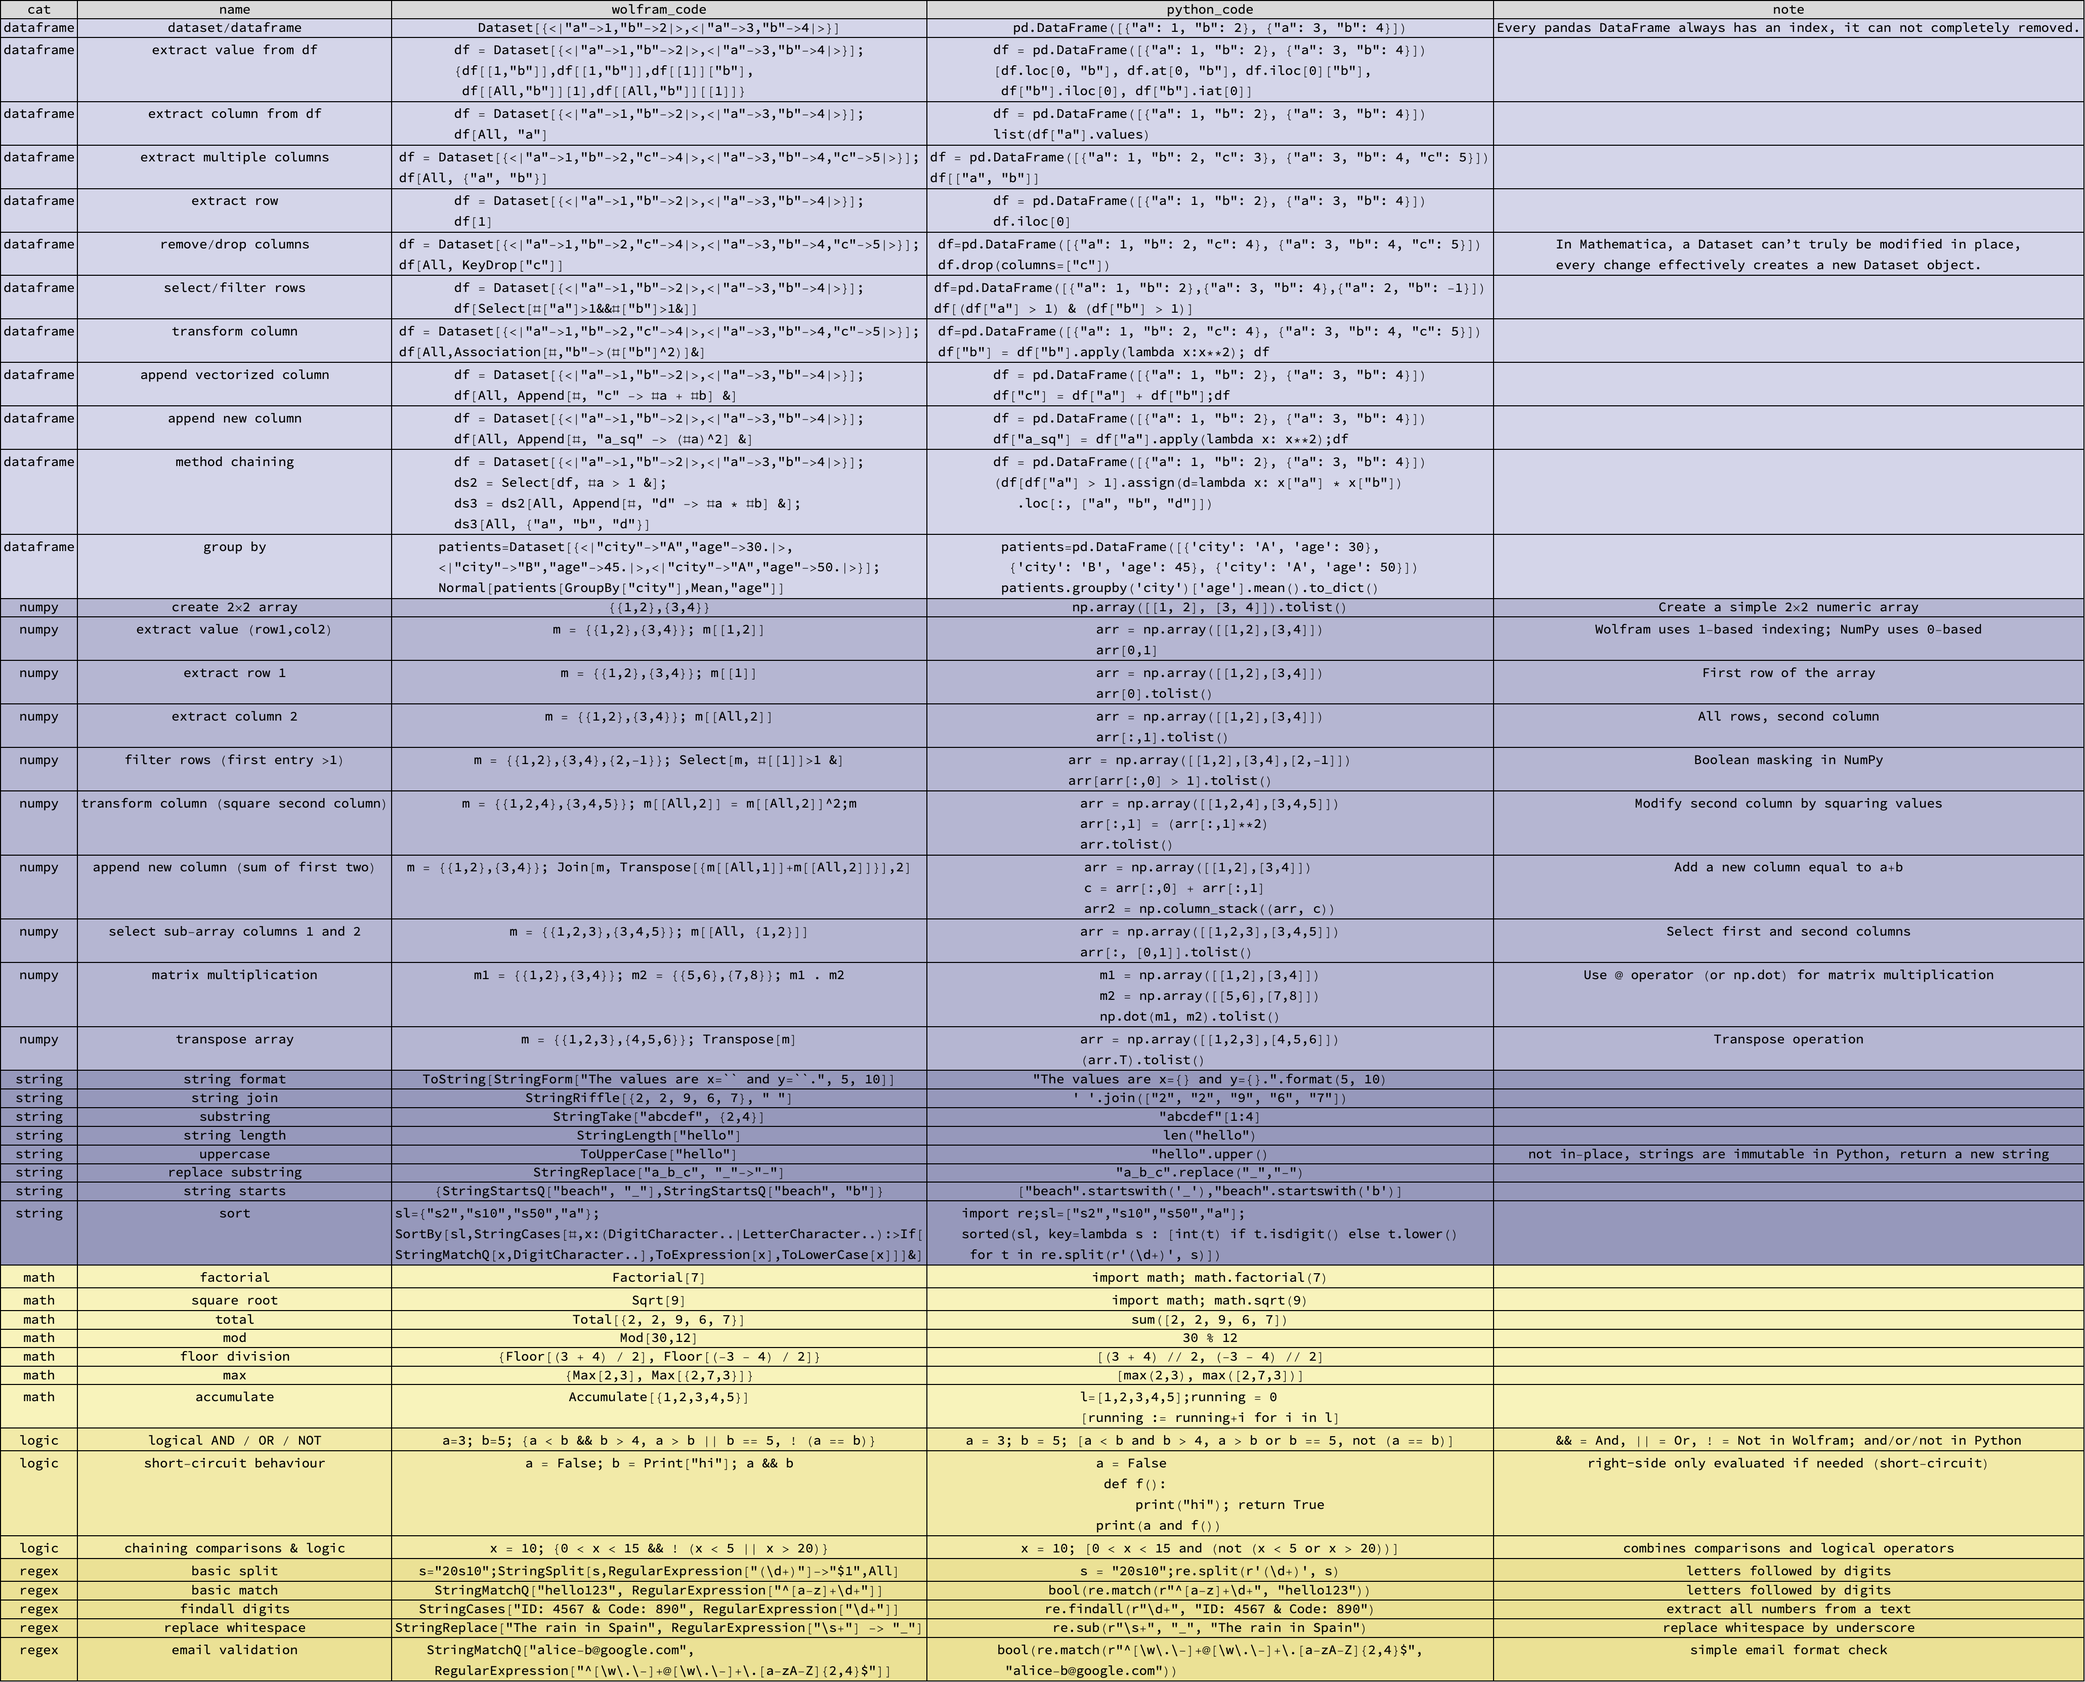
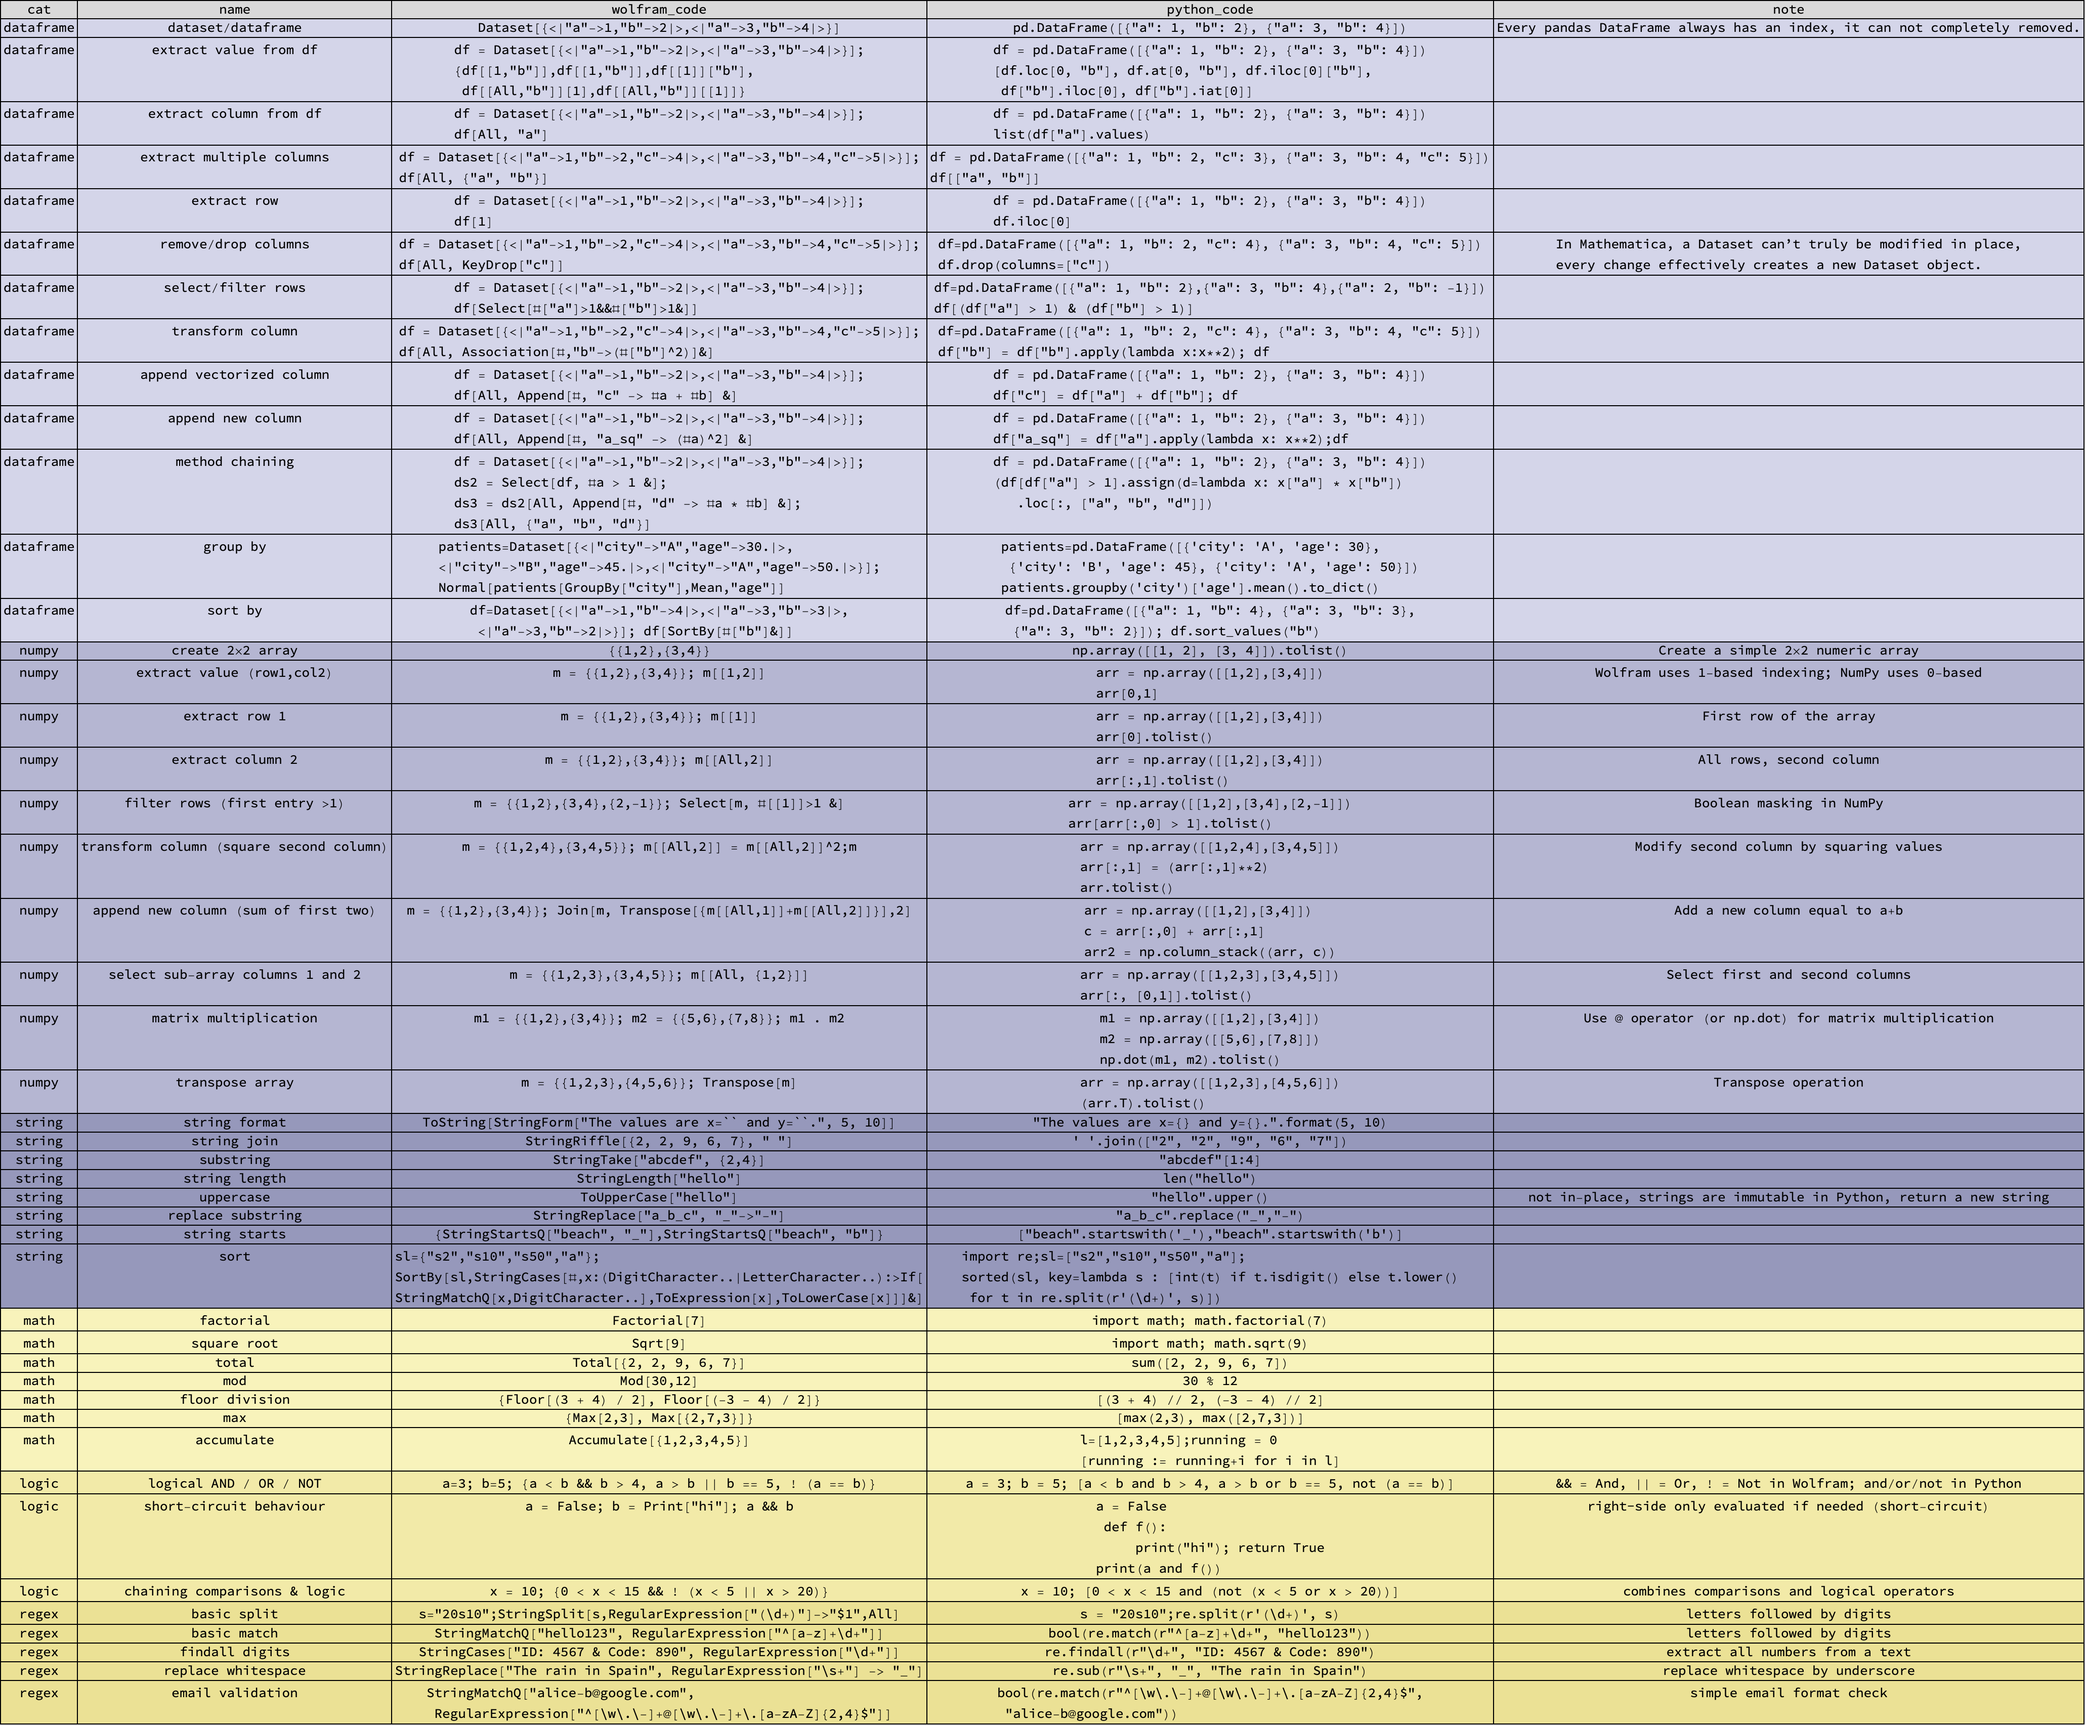
New code

diff --git a/README.md b/README.md
@@ -56,6 +56,7 @@ partition/chunk|<pre>Partition[{1,2,3,4,5,6,7}, UpTo[2]]</pre>|<pre>l = [1,2,3,4
  Name | Wolfram | Python
 :---:|:---|:---
 dict|<pre><\|"a"->2,"b"->2,"c"->9,"d"->6,"e"->7\|></pre>|<pre>{"a":2,"b":2,"c":9,"d":6,"e":7}</pre>
+init from list|<pre>Association[{"b"2,"a"1,"c"3}]</pre>|<pre>dict([['b',2],['a',1],['c',3]])</pre>
 access element in dict|<pre><\|"a"->2,"b"->2,"c"->9,"d"->6,"e"->7\|>["a"]</pre>|<pre>{"a":2,"b":2,"c":9,"d":6,"e":7}["a"]</pre>
 add or update key|<pre>d = <\|"a"->1\|>; d["b"] = 2; d</pre>|<pre>d = {"a": 1}; d["b"] = 2; d</pre>
 remove key|<pre>KeyDrop[<\|"a"->1,"b"->2\|>, "a"]</pre>|<pre>d = {"a": 1, "b": 2};d.pop("a"); d</pre>
@@ -148,11 +149,12 @@ extract multiple columns|<pre>df = Dataset[{<\|"a"->1,"b"->2,"c"->4\|>,<\|"a"->3
 extract row|<pre>df = Dataset[{<\|"a"->1,"b"->2\|>,<\|"a"->3,"b"->4\|>}];<br/>df[1]<br/></pre>|<pre>df = pd.DataFrame([{"a": 1, "b": 2}, {"a": 3, "b": 4}])<br/>df.iloc[0]<br/></pre>
 remove/drop columns|<pre>df = Dataset[{<\|"a"->1,"b"->2,"c"->4\|>,<\|"a"->3,"b"->4,"c"->5\|>}];<br/>df[All, KeyDrop["c"]]<br/></pre>|<pre>df=pd.DataFrame([{"a": 1, "b": 2, "c": 4}, {"a": 3, "b": 4, "c": 5}])<br/>df.drop(columns=["c"])<br/></pre>
 select/filter rows|<pre>df = Dataset[{<\|"a"->1,"b"->2\|>,<\|"a"->3,"b"->4\|>}];<br/>df[Select[#["a"]>1&&#["b"]>1&]]<br/></pre>|<pre>df=pd.DataFrame([{"a": 1, "b": 2},{"a": 3, "b": 4},{"a": 2, "b": -1}])<br/>df[(df["a"] > 1) & (df["b"] > 1)]<br/></pre>
-transform column|<pre>df = Dataset[{<\|"a"->1,"b"->2,"c"->4\|>,<\|"a"->3,"b"->4,"c"->5\|>}];<br/>df[All,Association[#,"b"->(#["b"]^2)]&]<br/></pre>|<pre>df=pd.DataFrame([{"a": 1, "b": 2, "c": 4}, {"a": 3, "b": 4, "c": 5}])<br/>df["b"] = df["b"].apply(lambda x:x**2); df<br/></pre>
-append vectorized column|<pre>df = Dataset[{<\|"a"->1,"b"->2\|>,<\|"a"->3,"b"->4\|>}];<br/>df[All, Append[#, "c" -> #a + #b] &]<br/></pre>|<pre>df = pd.DataFrame([{"a": 1, "b": 2}, {"a": 3, "b": 4}])<br/>df["c"] = df["a"] + df["b"];df<br/></pre>
+transform column|<pre>df = Dataset[{<\|"a"->1,"b"->2,"c"->4\|>,<\|"a"->3,"b"->4,"c"->5\|>}];<br/>df[All, Association[#,"b"->(#["b"]^2)]&]<br/></pre>|<pre>df=pd.DataFrame([{"a": 1, "b": 2, "c": 4}, {"a": 3, "b": 4, "c": 5}])<br/>df["b"] = df["b"].apply(lambda x:x**2); df<br/></pre>
+append vectorized column|<pre>df = Dataset[{<\|"a"->1,"b"->2\|>,<\|"a"->3,"b"->4\|>}];<br/>df[All, Append[#, "c" -> #a + #b] &]<br/></pre>|<pre>df = pd.DataFrame([{"a": 1, "b": 2}, {"a": 3, "b": 4}])<br/>df["c"] = df["a"] + df["b"]; df<br/></pre>
 append new column|<pre>df = Dataset[{<\|"a"->1,"b"->2\|>,<\|"a"->3,"b"->4\|>}];<br/>df[All, Append[#, "a_sq" -> (#a)^2] &]<br/></pre>|<pre>df = pd.DataFrame([{"a": 1, "b": 2}, {"a": 3, "b": 4}])<br/>df["a_sq"] = df["a"].apply(lambda x: x**2);df<br/></pre>
 method chaining|<pre>df = Dataset[{<\|"a"->1,"b"->2\|>,<\|"a"->3,"b"->4\|>}];<br/>ds2 = Select[df, #a > 1 &];<br/>ds3 = ds2[All, Append[#, "d" -> #a * #b] &];<br/>ds3[All, {"a", "b", "d"}]<br/></pre>|<pre>df = pd.DataFrame([{"a": 1, "b": 2}, {"a": 3, "b": 4}])<br/>(df[df["a"] > 1].assign(d=lambda x: x["a"] * x["b"])<br/>   .loc[:, ["a", "b", "d"]])<br/></pre>
 group by|<pre>patients=Dataset[{<\|"city"->"A","age"->30.\|>,<br/><\|"city"->"B","age"->45.\|>,<\|"city"->"A","age"->50.\|>}];<br/>Normal[patients[GroupBy["city"],Mean,"age"]]<br/></pre>|<pre>patients=pd.DataFrame([{'city': 'A', 'age': 30},<br/> {'city': 'B', 'age': 45}, {'city': 'A', 'age': 50}])<br/>patients.groupby('city')['age'].mean().to_dict()<br/></pre>
+sort by|<pre>df=Dataset[{<\|"a"->1,"b"->4\|>,<\|"a"->3,"b"->3\|>,<br/> <\|"a"->3,"b"->2\|>}]; df[SortBy[#["b"]&]]<br/></pre>|<pre>df=pd.DataFrame([{"a": 1, "b": 4}, {"a": 3, "b": 3},<br/> {"a": 3, "b": 2}]); df.sort_values("b")<br/></pre>
 
 ## String
 
